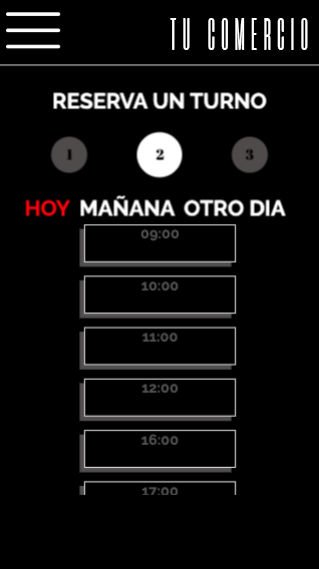
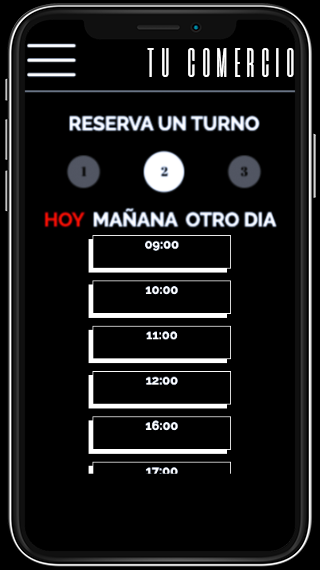
almost there

Changed region(s): [[0.0, 0.0, 1.0, 1.0]]

diff --git a/pages/index.jsx b/pages/index.jsx
@@ -12,6 +12,7 @@ import {
   Contact,
   PricesSection,
   Header,
+  Image,
 } from "src/components";
 import { Link } from "react-scroll";
 
@@ -29,33 +30,6 @@ export default function Index() {
     <Parallax>
       <Header />
       <Section>
-        <ChildrenSlider>
-          <AlignText>
-            <Title>Todo en un solo lugar</Title>
-            <Subtitle2>
-              Tus clientes, tus ganancias, incluso tus promociones
-            </Subtitle2>
-          </AlignText>
-          <AlignText>
-            <Title>Envía notificaciones </Title>
-            <Subtitle2>avisos de turnos y descuentos</Subtitle2>
-          </AlignText>
-          <AlignText>
-            <Title>No pierdas tiempo dando turnos</Title>
-          </AlignText>
-        </ChildrenSlider>
-        <Mobile
-          from={{
-            left: 0,
-            opacity: 1,
-          }}
-          to={{
-            left: "0%",
-            opacity: 1,
-          }}
-          ease="Power1.in"
-          src="/login.png"
-        />
         <Link
           activeClass="active"
           to="first"
@@ -63,20 +37,80 @@ export default function Index() {
           smooth={true}
           duration={1000}
         >
-          <SvgArrow
+          <ChildrenSlider>
+            <AlignText>
+              <Image
+                alt="Sistema de turnos web"
+                width="100%"
+                height="100%"
+                src="/center_logo.png"
+              />
+              <Subtitle2>Sistema de turnos 100% web e intuitivo</Subtitle2>
+            </AlignText>
+            <AlignText>
+              <Title>Todo en un solo lugar</Title>
+              <Subtitle2>
+                Tus clientes, tus ganancias, incluso tus promociones
+              </Subtitle2>
+              <Image
+                alt="Programa tus horarios con un click"
+                src="/viewer.png"
+              />
+            </AlignText>
+            <AlignText>
+              <Title>Programa tus horarios con un click</Title>
+              <Subtitle2>y deja que el sistema se encargue de todo</Subtitle2>
+              <Image
+                alt="Programa tus horarios con un click"
+                src="/schedule.png"
+              />
+            </AlignText>
+            <AlignText>
+              <Title>Envía notificaciones </Title>
+              <Subtitle2>avisos de turnos y descuentos</Subtitle2>
+              <Image alt="¡Envia notificaciones!" src="/notification.png" />
+            </AlignText>
+            <AlignText>
+              <Title>No pierdas tiempo dando turnos</Title>
+              <Subtitle2>concentrate en tu negocio</Subtitle2>
+            </AlignText>
+          </ChildrenSlider>
+          {/* <ChildrenSlider>
+          <Image
             from={{
+              left: 0,
               opacity: 1,
             }}
             to={{
-              opacity: 0,
+              left: "0%",
+              opacity: 1,
             }}
             ease="Power1.in"
-            width="80px"
-            height="80px"
+            src="/viewer.png"
           />
+          <Image
+            from={{
+              left: 0,
+              opacity: 1,
+            }}
+            to={{
+              left: "0%",
+              opacity: 1,
+            }}
+            ease="Power1.in"
+            alt="Programa tus horarios con un click"
+            src="/schedule.png"
+          />
+        </ChildrenSlider> */}
+
+          <SvgArrow width="80px" height="80px" />
         </Link>
       </Section>
-      <Section id="first" height={`115vh`}>
+      <Section
+        id="first"
+        sceneOptions={{ triggerHook: "onEnter" }}
+        height={`115vh`}
+      >
         <Title
           boxOptions={{
             heightAuto: true,
@@ -106,7 +140,7 @@ export default function Index() {
         >
           Ellos mismos programan sus turnos, sin descargar una App.
         </Subtitle2>
-        <Mobile
+        <Image
           from={{
             opacity: 0,
             left: "-15%",
@@ -134,7 +168,7 @@ export default function Index() {
         >
           En 3 simples pasos
         </Title>
-        <Mobile
+        <Image
           from={{
             opacity: 0,
             left: "50%",
@@ -144,7 +178,7 @@ export default function Index() {
             left: "0%",
           }}
           ease="Power1.in"
-          src="/barber.png"
+          src="/reservar.png"
         />
       </Section>
       <Section>
@@ -162,7 +196,7 @@ export default function Index() {
         >
           1. Elegí el servicio
         </Title>
-        <Mobile
+        <Image
           from={{
             opacity: 0,
             left: "-15%",
@@ -190,7 +224,7 @@ export default function Index() {
         >
           2. Seleccioná día y horario
         </Title>
-        <Mobile
+        <Image
           from={{
             opacity: 0,
             left: "50%",
@@ -219,7 +253,7 @@ export default function Index() {
         >
           3. Confirmá
         </Title>
-        <Mobile
+        <Image
           from={{
             opacity: 0,
             left: "-15%",

diff --git a/src/components/SvgArrow.jsx b/src/components/SvgArrow.jsx
@@ -1,16 +1,12 @@
 import React from "react";
 import styled from "styled-components";
-import { Tween } from "react-gsap";
 
 const SvgContainer = styled.div`
-  position: absolute;
-  left: 40%;
-  bottom: 0%;
+  display: flex;
+  justify-content: center;
   cursor: pointer;
-
-  @media screen and (min-width: 960px) {
-    left: 46.5%;
-  }
+  height: 100%;
+  align-items: center;
 `;
 
 const SvgAnimation = styled.div`
@@ -34,32 +30,30 @@ const Svg = styled.svg`
   fill: white;
 `;
 
-const SvgTween = ({ src, width, height, ...options }) => (
-  <Tween {...options}>
-    <SvgContainer width={width}>
-      <SvgAnimation>
-        <Svg
-          version="1.1"
-          id="Capa_1"
-          xmlns="http://www.w3.org/2000/svg"
-          x="0px"
-          y="0px"
-          width={width ? width : "960px"}
-          height={height ? height : "560px"}
-          viewBox="0 0 960 560"
-          enable-background="new 0 0 960 560"
-        >
-          <g id="Rounded_Rectangle_33_copy_4_1_">
-            <path
-              d="M480,344.181L268.869,131.889c-15.756-15.859-41.3-15.859-57.054,0c-15.754,15.857-15.754,41.57,0,57.431l237.632,238.937
+const SvgTween = ({ src, width, height }) => (
+  <SvgContainer width={width}>
+    <SvgAnimation>
+      <Svg
+        version="1.1"
+        id="Capa_1"
+        xmlns="http://www.w3.org/2000/svg"
+        x="0px"
+        y="0px"
+        width={width ? width : "960px"}
+        height={height ? height : "560px"}
+        viewBox="0 0 960 560"
+        enable-background="new 0 0 960 560"
+      >
+        <g id="Rounded_Rectangle_33_copy_4_1_">
+          <path
+            d="M480,344.181L268.869,131.889c-15.756-15.859-41.3-15.859-57.054,0c-15.754,15.857-15.754,41.57,0,57.431l237.632,238.937
 		c8.395,8.451,19.562,12.254,30.553,11.698c10.993,0.556,22.159-3.247,30.555-11.698l237.631-238.937
 		c15.756-15.86,15.756-41.571,0-57.431s-41.299-15.859-57.051,0L480,344.181z"
-            />
-          </g>
-        </Svg>
-      </SvgAnimation>
-    </SvgContainer>
-  </Tween>
+          />
+        </g>
+      </Svg>
+    </SvgAnimation>
+  </SvgContainer>
 );
 
 export default SvgTween;

diff --git a/src/components/Image.jsx b/src/components/Image.jsx
@@ -1,19 +1,28 @@
 import React from "react";
 import styled from "styled-components";
 import { Tween } from "react-gsap";
+import TransitionMounted from "./TransitionMounted";
 
-const Img = styled.img`
+const Container = styled.div`
   position: relative;
-  width: 100%;
-  height: auto;
-  ${({ width }) => (width ? `width: ${width} ;` : ``)}
-  ${({ height }) => (height ? `height: ${height} ;` : ``)}
 `;
 
-const Image = ({ src, width, height, ...options }) => (
-  <Tween {...options}>
-    <Img src={src} width={width} height={height} />
-  </Tween>
+const Container2 = styled.div`
+  display: flex;
+  justify-content: center;
+  padding-top: 30px;
+`;
+
+const Image = ({ src, alt, width = 260, height, ...options }) => (
+  <TransitionMounted time={5}>
+    <Tween {...options}>
+      <Container>
+        <Container2>
+          <img alt={alt} src={src} width={width} height={height} />
+        </Container2>
+      </Container>
+    </Tween>
+  </TransitionMounted>
 );
 
 export default Image;

diff --git a/src/components/BurgerButton.jsx b/src/components/BurgerButton.jsx
@@ -11,8 +11,8 @@ const Container = styled.div`
     display: block;
     background-color: transparent;
     outline: none;
-    width: 100%;
-    height: 45px;
+    width: 40px;
+    height: 35px;
     margin: 0px;
     padding: 0px;
     position: relative;
@@ -42,10 +42,10 @@ const Container = styled.div`
       top: 0px;
     }
     span:nth-child(2) {
-      top: 18px;
+      top: 12px;
     }
     span:nth-child(3) {
-      top: 36px;
+      top: 24px;
     }
     ${({ isOpen }) =>
       isOpen &&
@@ -60,7 +60,7 @@ const Container = styled.div`
     }
     span:nth-child(3) {
         transform: rotate(-45deg);
-        top: 33px;
+        top: 25px;
     }
     `}
   }

diff --git a/src/components/ChildrenSlider.jsx b/src/components/ChildrenSlider.jsx
@@ -9,7 +9,7 @@ const Container = styled.div`
   height: 175px;
 `;
 
-const ChildrenSlider = ({ delay = 4, children }) => {
+const ChildrenSlider = ({ delay = 5, children }) => {
   const [currentView, changeView] = useState(0);
   const transitions = useTransition([currentView], (item) => item, {
     from: { opacity: 0, position: "absolute" },
